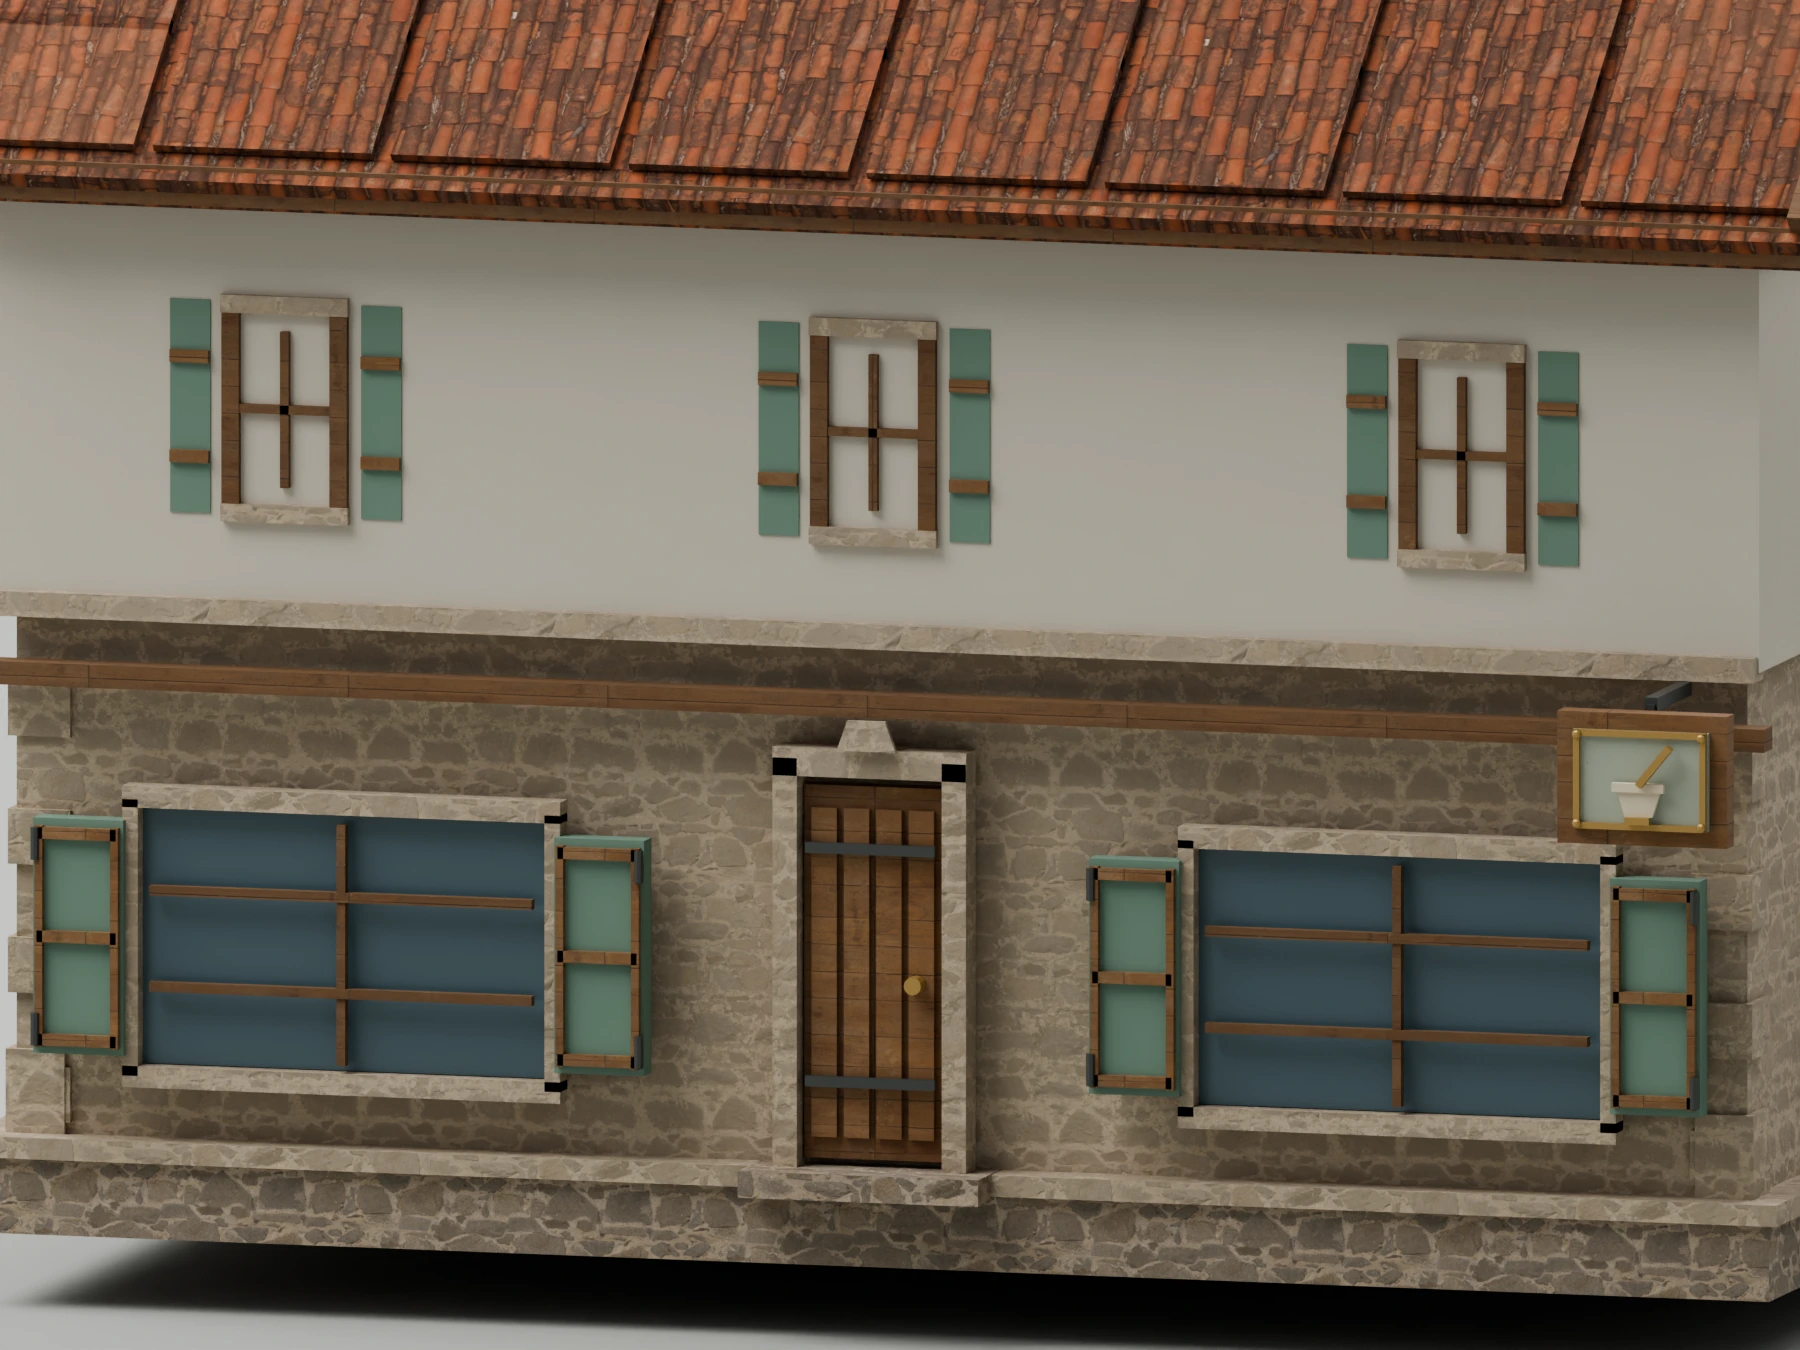
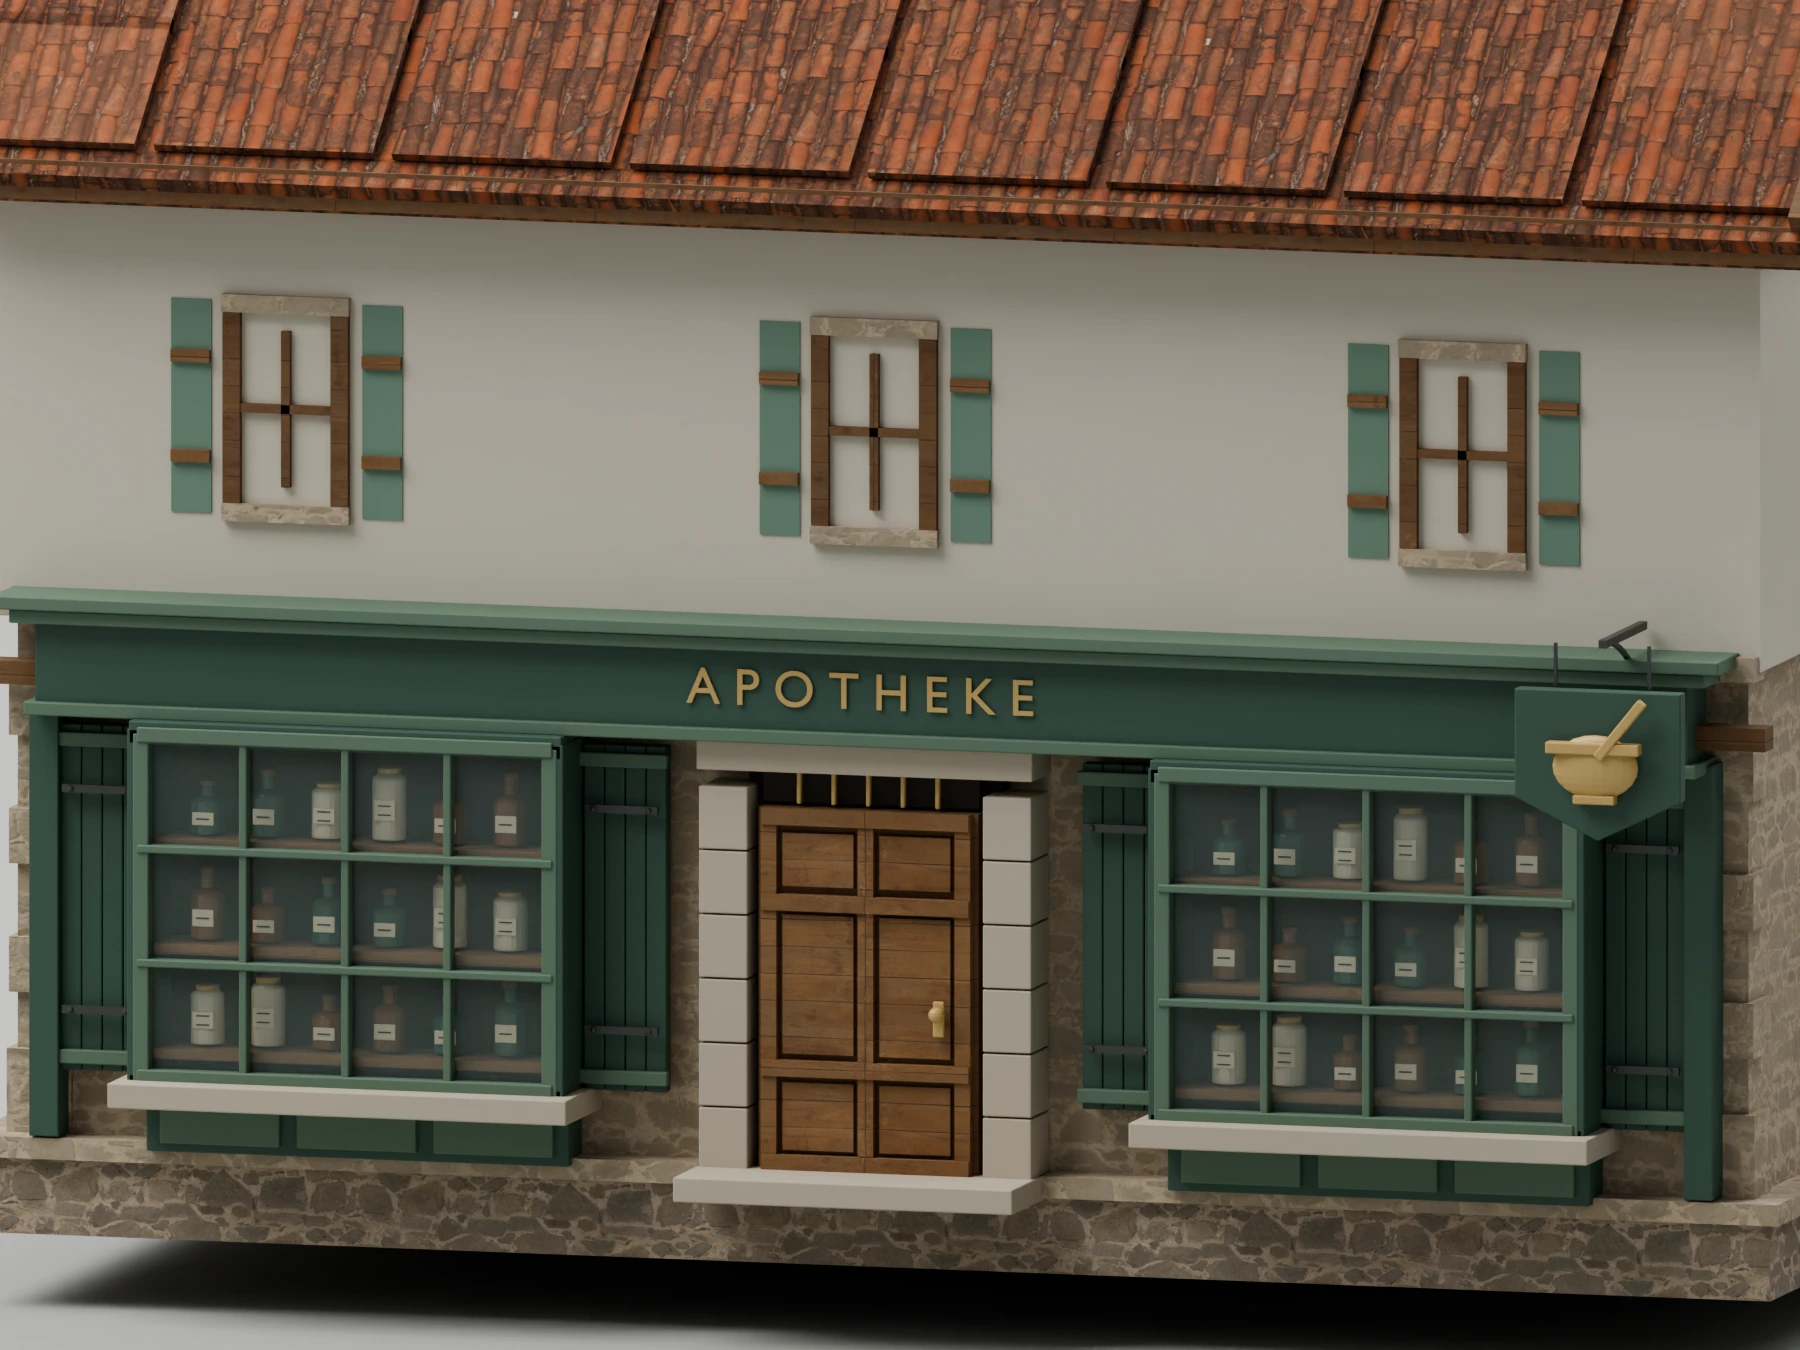
Rebuild apothecary storefront with stocked displays and fitted joinery

diff --git a/site/index.html b/site/index.html
@@ -328,11 +328,11 @@ footer{padding:18px 0 30px;border-top:1px solid var(--line);color:#87918c;font-s
   </a>
   <div class="caption"><div class="eyebrow">World</div><h3>Early-19th-century town buildings</h3><p>Fourteen reusable plaster, masonry, timber, and tiled-roof models used across 22 city placements</p><span class="credit">Big Sim original building models</span></div>
 </article><article class="card" data-category="World" data-detail="true">
-  <a class="image" href="images/gallery/apothecary-shopfront-detail.webp?v=apothecary-close-20261023" aria-label="Open full size image: Apothecary shopfront">
-    <img src="images/gallery/apothecary-shopfront-detail.webp?v=apothecary-close-20261023" alt="Apothecary shopfront — Six-light display windows, framed shutters, a cut-stone doorway, and a projecting mortar-and-pestle sign" loading="lazy">
+  <a class="image" href="images/gallery/apothecary-shopfront-detail.webp?v=apothecary-rebuild-20261024" aria-label="Open full size image: Apothecary shopfront">
+    <img src="images/gallery/apothecary-shopfront-detail.webp?v=apothecary-rebuild-20261024" alt="Apothecary shopfront — Stocked glazed display cases, painted timber joinery, an oak doorway, gilded APOTHEKE lettering, and a hanging pharmacy shield" loading="lazy">
     <span class="number">40</span>
   </a>
-  <div class="caption"><div class="eyebrow">World</div><h3>Apothecary shopfront</h3><p>Six-light display windows, framed shutters, a cut-stone doorway, and a projecting mortar-and-pestle sign.</p><span class="credit">Big Sim original building detail</span></div>
+  <div class="caption"><div class="eyebrow">World</div><h3>Apothecary shopfront</h3><p>Stocked glazed display cases, painted timber joinery, an oak doorway, gilded APOTHEKE lettering, and a hanging pharmacy shield.</p><span class="credit">Big Sim original building detail</span></div>
 </article><article class="card" data-category="World" data-detail="true">
   <a class="image" href="images/gallery/inn-entry-detail.webp" aria-label="Open full size image: Inn entrance and sign">
     <img src="images/gallery/inn-entry-detail.webp" alt="Inn entrance and sign — Covered entry, masonry surround, and projecting inn sign at close range" loading="lazy">

diff --git a/site/world-battlefield.html b/site/world-battlefield.html
@@ -129,10 +129,10 @@ footer a{color:var(--gold)}
   </a>
   <div class="caption"><div class="eyebrow">World</div><h3>Early-19th-century town buildings</h3><p>Fourteen reusable plaster, masonry, timber, and tiled-roof models used across 22 city placements</p><span class="credit">Big Sim original building models</span></div>
 </article><article class="card">
-  <a class="image" href="images/gallery/apothecary-shopfront-detail.webp?v=apothecary-close-20261023" aria-label="Open full size image: Apothecary shopfront">
-    <img src="images/gallery/apothecary-shopfront-detail.webp?v=apothecary-close-20261023" alt="Apothecary shopfront — Six-light display windows, framed shutters, a cut-stone doorway, and a projecting mortar-and-pestle sign" loading="lazy">
+  <a class="image" href="images/gallery/apothecary-shopfront-detail.webp?v=apothecary-rebuild-20261024" aria-label="Open full size image: Apothecary shopfront">
+    <img src="images/gallery/apothecary-shopfront-detail.webp?v=apothecary-rebuild-20261024" alt="Apothecary shopfront — Stocked glazed display cases, painted timber joinery, an oak doorway, gilded APOTHEKE lettering, and a hanging pharmacy shield" loading="lazy">
   </a>
-  <div class="caption"><div class="eyebrow">World</div><h3>Apothecary shopfront</h3><p>Six-light display windows, framed shutters, a cut-stone doorway, and a projecting mortar-and-pestle sign.</p><span class="credit">Big Sim original building detail</span></div>
+  <div class="caption"><div class="eyebrow">World</div><h3>Apothecary shopfront</h3><p>Stocked glazed display cases, painted timber joinery, an oak doorway, gilded APOTHEKE lettering, and a hanging pharmacy shield.</p><span class="credit">Big Sim original building detail</span></div>
 </article><article class="card">
   <a class="image" href="images/gallery/inn-entry-detail.webp" aria-label="Open full size image: Inn entrance and sign">
     <img src="images/gallery/inn-entry-detail.webp" alt="Inn entrance and sign — Covered entry, masonry surround, and projecting inn sign at close range" loading="lazy">

diff --git a/site/model-closeups.html b/site/model-closeups.html
@@ -330,8 +330,8 @@ footer a{color:var(--gold)}
   </a>
   <div class="caption"><div class="eyebrow">Town interiors</div><h3>Warehouse Ground</h3><p>Close-up studio render of the exported Warehouse Ground model.</p><span class="credit">Big Sim model · see CREDITS.md for source notes</span><code class="source">art/city_buildings/interiors/warehouse_ground.glb</code></div>
 </article><article class="card">
-  <a class="image" href="images/gallery/model-closeup-art-city-buildings-models-apothecary.webp" aria-label="Open full size image: Apothecary">
-    <img src="images/gallery/model-closeup-art-city-buildings-models-apothecary.webp" alt="Apothecary — Close-up studio render of the exported Apothecary model." loading="lazy">
+  <a class="image" href="images/gallery/model-closeup-art-city-buildings-models-apothecary.webp?v=apothecary-rebuild-20261024" aria-label="Open full size image: Apothecary">
+    <img src="images/gallery/model-closeup-art-city-buildings-models-apothecary.webp?v=apothecary-rebuild-20261024" alt="Apothecary — Close-up studio render of the exported Apothecary model." loading="lazy">
   </a>
   <div class="caption"><div class="eyebrow">Town exteriors</div><h3>Apothecary</h3><p>Close-up studio render of the exported Apothecary model.</p><span class="credit">Big Sim model · see CREDITS.md for source notes</span><code class="source">art/city_buildings/models/apothecary.glb</code></div>
 </article><article class="card">
